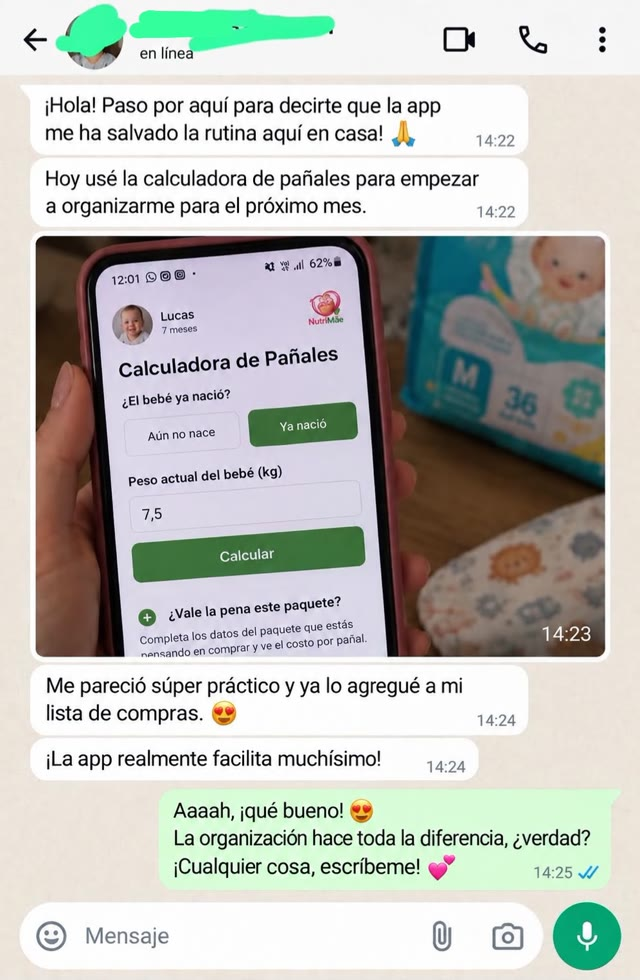
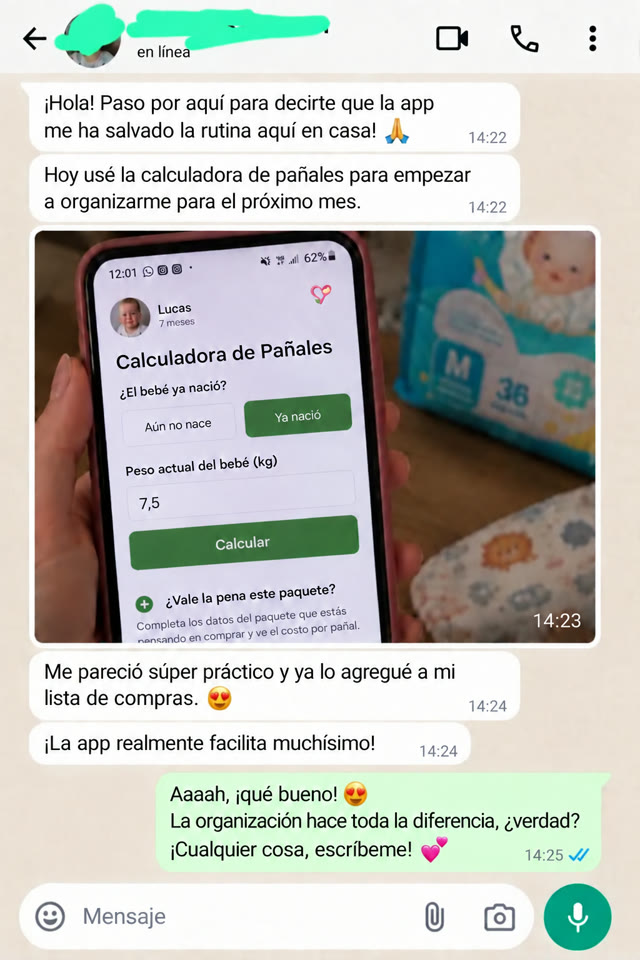
Corrige branding NutriMama nos depoimentos e adiciona pixel Meta dedicado pro Hotmart LATAM
5 prints de depoimentos tinham "NutriMae" (typo herdado do fluxo BR) em vez
de "NutriMama" - substitui pelas versoes corrigidas.

Webhook do Hotmart agora reporta Purchase pro pixel Meta dedicado da
NutriMama LATAM (META_PIXEL_ID_HOTMART/META_ACCESS_TOKEN_HOTMART) em vez
do pixel BR do Pagar.me, pra nao misturar sinal de conversao de produtos/
paises/idiomas diferentes no mesmo Pixel.

diff --git a/meta-conversion.js b/meta-conversion.js
@@ -16,6 +16,11 @@
  *                          Eventos Manager.
  *   META_TEST_EVENT_CODE (opcional) — código de teste do Events Manager,
  *                          só enquanto estiver validando no modo de teste.
+ *
+ * pixelId/accessToken também podem ser passados por chamada (sobrescrevem
+ * as env vars acima) — usado por grant-access-hotmart.ts pra mandar pro
+ * pixel da NutriMama LATAM em vez do pixel BR do Pagar.me, sem misturar
+ * os dois sinais de conversão no mesmo Pixel.
  */
 /* eslint-disable @typescript-eslint/no-require-imports -- script Node solto, fora do bundle da app, roda direto com `node`. */
 const bizSdk = require("facebook-nodejs-business-sdk");
@@ -40,9 +45,9 @@ function sha256(value) {
  * @param {string} [params.fbp] - cookie _fbp do Pixel (navegador), capturado no checkout
  * @param {string} [params.currency] - moeda ISO da venda (ex.: "BRL", "CLP"). Default "BRL" pro fluxo Pagar.me existente.
  */
-async function sendMetaEvent({ eventName, eventId, email, phone, amountCents, clientIp, userAgent, fbc, fbp, currency }) {
-  const accessToken = process.env.META_ACCESS_TOKEN;
-  const pixelId = process.env.META_PIXEL_ID;
+async function sendMetaEvent({ eventName, eventId, email, phone, amountCents, clientIp, userAgent, fbc, fbp, currency, pixelId: pixelIdOverride, accessToken: accessTokenOverride }) {
+  const accessToken = accessTokenOverride ?? process.env.META_ACCESS_TOKEN;
+  const pixelId = pixelIdOverride ?? process.env.META_PIXEL_ID;
   if (!accessToken || !pixelId) {
     throw new Error("META_ACCESS_TOKEN / META_PIXEL_ID ausentes — configure as variáveis de ambiente antes de chamar isto.");
   }
@@ -75,8 +80,8 @@ async function sendMetaEvent({ eventName, eventId, email, phone, amountCents, cl
   return request.execute();
 }
 
-function sendPurchaseEvent({ email, phone, orderId, amountCents, clientIp, userAgent, fbc, fbp, currency }) {
-  return sendMetaEvent({ eventName: "Purchase", eventId: orderId, email, phone, amountCents, clientIp, userAgent, fbc, fbp, currency });
+function sendPurchaseEvent({ email, phone, orderId, amountCents, clientIp, userAgent, fbc, fbp, currency, pixelId, accessToken }) {
+  return sendMetaEvent({ eventName: "Purchase", eventId: orderId, email, phone, amountCents, clientIp, userAgent, fbc, fbp, currency, pixelId, accessToken });
 }
 
 function sendInitiateCheckoutEvent({ email, phone, orderId, amountCents, clientIp, userAgent, fbc, fbp }) {

diff --git a/src/lib/webhooks/grant-access-hotmart.ts b/src/lib/webhooks/grant-access-hotmart.ts
@@ -149,12 +149,20 @@ export async function grantAccessForHotmartPayment(admin: AdminClient, purchase:
  * nunca lança: a liberação de acesso (já feita acima) é o que importa de
  * verdade, rastreamento de anúncio não pode derrubar o webhook.
  *
+ * Usa META_PIXEL_ID_HOTMART/META_ACCESS_TOKEN_HOTMART (pixel dedicado da
+ * NutriMama LATAM, criado 2026-09-12) em vez das vars META_PIXEL_ID/
+ * META_ACCESS_TOKEN "padrão" (essas continuam exclusivas do fluxo Pagar.me/
+ * BR) — produto, país e idioma diferentes não devem compartilhar o mesmo
+ * Pixel, senão o sinal de conversão de um contamina o aprendizado do outro.
+ *
  * Não temos fbc/fbp/IP/user-agent aqui (o checkout roda inteiro no domínio
  * do Hotmart, não no nosso) — a correspondência no Meta fica só por
  * e-mail/telefone (hasheados), pior que a do fluxo BR mas ainda funcional.
  */
 async function reportPurchaseToMeta(purchase: HotmartPurchaseLike, email: string) {
-  if (!process.env.META_ACCESS_TOKEN || !process.env.META_PIXEL_ID) return;
+  const accessToken = process.env.META_ACCESS_TOKEN_HOTMART;
+  const pixelId = process.env.META_PIXEL_ID_HOTMART;
+  if (!accessToken || !pixelId) return;
   try {
     const amountCents =
       typeof purchase.price?.value === "number" ? Math.round(purchase.price.value * 100) : undefined;
@@ -164,6 +172,8 @@ async function reportPurchaseToMeta(purchase: HotmartPurchaseLike, email: string
       orderId: `hotmart_${purchase.transaction}`,
       amountCents,
       currency: purchase.price?.currency_value ?? "CLP",
+      pixelId,
+      accessToken,
     });
   } catch (err) {
     console.error("[hotmart-webhook] falha ao reportar compra pro Meta (acesso já foi liberado normalmente)", err);
